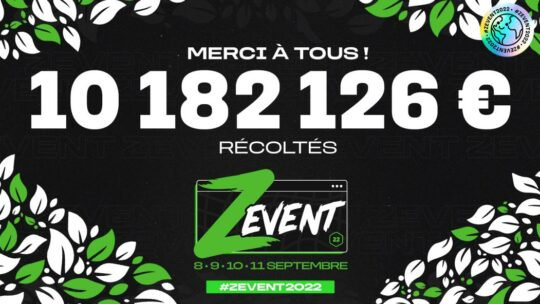
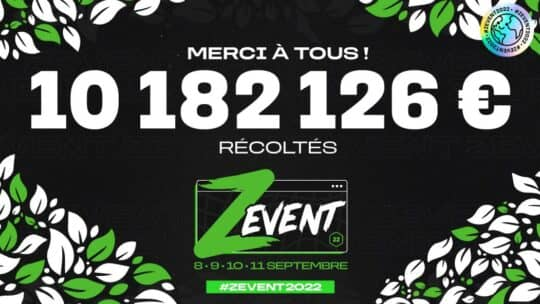
V1.5 Otimisation des images avec compressor.io

diff --git a/SeaCleaner/Evenements.html b/SeaCleaner/Evenements.html
@@ -32,7 +32,7 @@
 
     <div class="container">
       <div class="logo">
-        <img src="img/SeaCleaner logo.png" alt="">
+        <a href="index.html#" ><img  src="img/SeaCleaner logo.png" alt=""></a>
       </div>
       <nav class="menu" >
         <a href="index.html#pollution">La pollution</a>
@@ -54,8 +54,8 @@
   <section class="container-fluid Evenements">
     <div class="container">
       <div class="row row-cols-1 row-cols-md-4 g-4">
-        <div class="col">
-          <div class="card h-100">
+        <div class="col" >
+          <div class="card h-100" id="CardEven" onclick="location.href='Construction.html'">
             <img src="img/Evenement1.jpeg" class="card-img-top" alt="Evenement1">
             <div class="card-body">
               <h5 class="card-title">21 septembre 2022</h5>
@@ -64,7 +64,7 @@
           </div>
         </div>
         <div class="col">
-          <div class="card h-100">
+          <div class="card h-100" id="CardEven" onclick="location.href='Construction.html'">
             <img src="img/Evenement2.jpeg" class="card-img-top" alt="Evenement2">
             <div class="card-body">
               <h5 class="card-title">20 septembre 2022</h5>
@@ -73,7 +73,7 @@
           </div>
         </div>
         <div class="col">
-          <div class="card h-100">
+          <div class="card h-100" id="CardEven" onclick="location.href='Construction.html'">
             <img src="img/Evenement3.png" class="card-img-top" alt="Evenement3">
             <div class="card-body">
               <h5 class="card-title">14 septembre 2022</h5>
@@ -82,7 +82,7 @@
           </div>
         </div>
         <div class="col">
-          <div class="card h-100">
+          <div class="card h-100" id="CardEven" onclick="location.href='Construction.html'">
             <img src="img/Evenement4.jpeg" class="card-img-top" alt="Evenement4">
             <div class="card-body">
               <h5 class="card-title">13 septembre 2022</h5>
@@ -91,7 +91,7 @@
           </div>
         </div>
         <div class="col">
-          <div class="card h-100">
+          <div class="card h-100" id="CardEven" onclick="location.href='Construction.html'">
             <img src="img/Evenement5.jpg" class="card-img-top" alt="Evenement5">
             <div class="card-body">
               <h5 class="card-title">09 septembre 2022</h5>
@@ -100,7 +100,7 @@
           </div>
         </div>
         <div class="col">
-          <div class="card h-100">
+          <div class="card h-100" id="CardEven" onclick="location.href='Construction.html'">
             <img src="img/Evenement6.png" class="card-img-top" alt="Evenement6">
             <div class="card-body">
               <h5 class="card-title">08 septembre 2022</h5>
@@ -109,7 +109,7 @@
           </div>
         </div>
         <div class="col">
-          <div class="card h-100">
+          <div class="card h-100" id="CardEven" onclick="location.href='Construction.html'">
             <img src="img/Evenement7.png" class="card-img-top" alt="Evenement7">
             <div class="card-body">
               <h5 class="card-title">06 septembre 2022</h5>
@@ -118,7 +118,7 @@
           </div>
         </div>
         <div class="col">
-          <div class="card h-100">
+          <div class="card h-100" id="CardEven" onclick="location.href='Construction.html'">
             <img src="img/Evenement8.png" class="card-img-top" alt="Evenement8">
             <div class="card-body">
               <h5 class="card-title">01 septembre 2022</h5>

diff --git a/SeaCleaner/index.html b/SeaCleaner/index.html
@@ -32,7 +32,7 @@
 
     <div class="container">
       <div class="logo">
-        <img src="img/SeaCleaner logo.png" alt="">
+        <a href="#" ><img  src="img/SeaCleaner logo.png" alt=""></a>
       </div>
       <nav class="menu" >
         <a href="#pollution">La pollution</a>
@@ -196,7 +196,7 @@
               <h5 class="card-title">Devenir Bénévole</h5>
               <p class="card-text">Engagez-vous dans la protection des océans en rejoignant une équipe de passionnés, dans
                 un esprit fun et positif !</p>
-              <a href="#" class="btn btn-info">En savoir plus</a>
+              <a href="Construction.html" class="btn btn-info">En savoir plus</a>
             </div>
           </div>
         </div>
@@ -207,7 +207,7 @@
               <h5 class="card-title">Faire un Don</h5>
               <p class="card-text">Soutenez notre association dans ses missions. Chaque don contribue à faire une
                 différence contre la pollution plastique.</p>
-              <a href="#" class="btn btn-info">En savoir plus</a>
+              <a href="Construction.html" class="btn btn-info">En savoir plus</a>
             </div>
           </div>
         </div>
@@ -219,7 +219,7 @@
               <p class="card-text">Devenir mécène de The SeaCleaners, c'est soutenir un projet écologique pionnier, tout
                 en mobilisant son écosystème pour une cause et en donnant une nouvelle ambition à sa politique RSE.
                 Consultez nos offres.</p>
-              <a href="#" class="btn btn-info">En savoir plus</a>
+              <a href="Construction.html" class="btn btn-info">En savoir plus</a>
             </div>
           </div>
         </div>
@@ -230,7 +230,7 @@
               <h5 class="card-title">Devenir Partenaire</h5>
               <p class="card-text">Nos partenaires institutionnels nous permettent de déployer notre projet de
                 protection des océans à l'échelle internationale, sur la base de valeurs partagées. </p>
-              <a href="#" class="btn btn-info">En savoir plus</a>
+              <a href="Construction.html" class="btn btn-info">En savoir plus</a>
             </div>
           </div>
         </div>

diff --git a/SeaCleaner/style.css b/SeaCleaner/style.css
@@ -66,8 +66,10 @@ body {
 }
 /* Animations Cards */
 
-.card:hover{
+#CardEven:hover{
     filter: drop-shadow(0 0 1rem #37D1F3);
+    transition: 0.5s;
+    cursor: pointer;
 
 }
 /* Animations page construction */
@@ -332,11 +334,11 @@ header .container {
     
 }
 
-/* .carousel-caption{
-    
-    color: ;
-    
-} */
+.carousel-caption {
+    background: rgba(0, 0, 0, 0.35);
+}
+
+
 /* section Agir  */
 .agir{
     display : flex;

diff --git a/SeaCleaner/Construction.html b/SeaCleaner/Construction.html
@@ -32,7 +32,7 @@
 
     <div class="container">
       <div class="logo">
-        <img src="img/SeaCleaner logo.png" alt="">
+        <a href="index.html#" ><img  src="img/SeaCleaner logo.png" alt=""></a>
       </div>
       <nav class="menu">
         <a href="index.html#pollution">La pollution</a>

diff --git a/SeaCleaner/script.js b/SeaCleaner/script.js
@@ -1,6 +1,4 @@
 var  nav = document.getElementById('back');
-
-
       
       window.onscroll = function(){
 
@@ -22,3 +20,4 @@ var  nav = document.getElementById('back');
         
         }
       }
+
